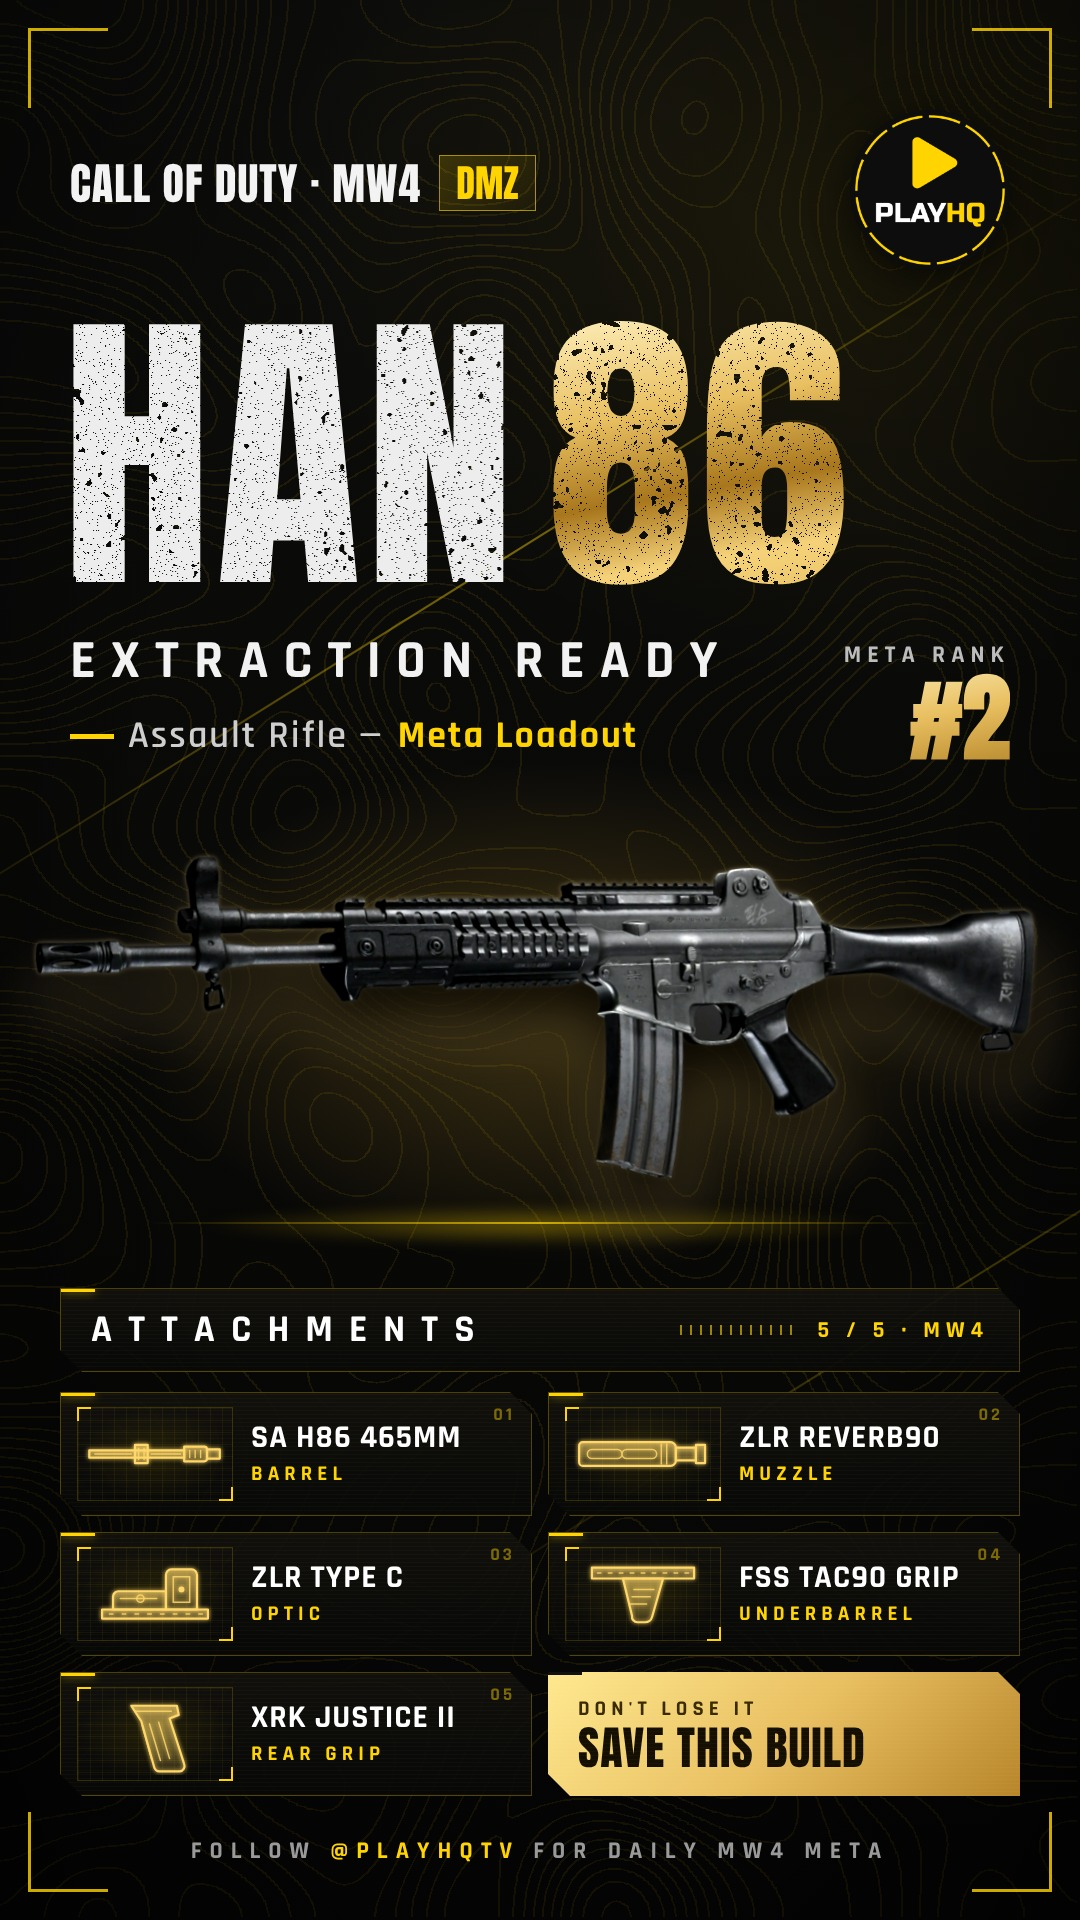
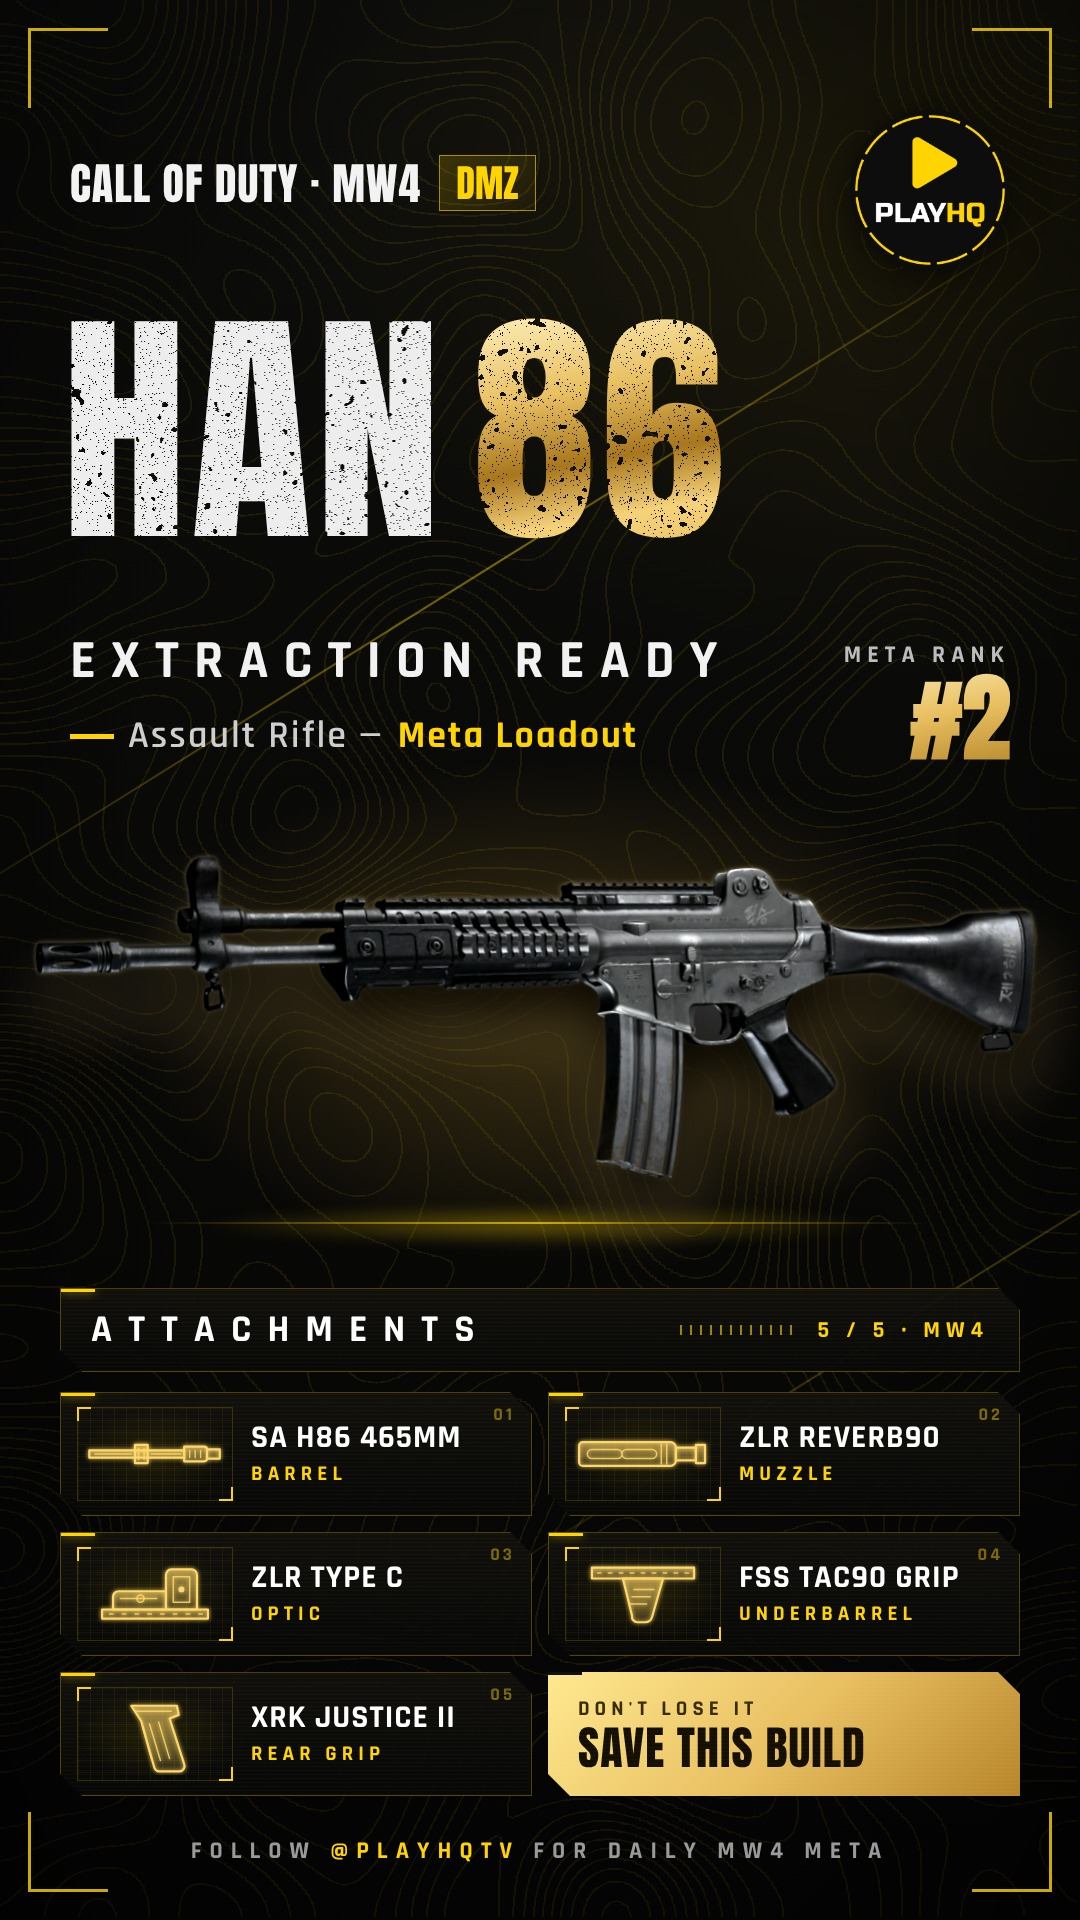
Carousel template: QA fixes (cover safe zone, CTA follow block, title size)
Claude-Session: https://claude.ai/code/session_01LXyKCaXtAVVtiefghrjJL7

Changed region(s): [[0.0611, 0.1562, 0.7944, 0.3125]]

diff --git a/templates/meta-carousel/render.py b/templates/meta-carousel/render.py
@@ -63,10 +63,10 @@ body{width:1080px;height:1920px;overflow:hidden;background:#070707;font-family:R
 .save .tx b{color:#140f00;font-family:Anton;font-size:46px;font-weight:400;letter-spacing:1px}
 .save .tx small{color:#3a2a00;letter-spacing:5px;font-size:21px;margin:0 0 2px}
 .kicker{position:absolute;left:70px;font-weight:700;font-size:34px;letter-spacing:14px;color:var(--y)}
-.card{position:absolute;width:465px;height:330px}
+.card{position:absolute;width:465px;height:280px}
 .card .badge{position:absolute;left:18px;top:18px;font-family:Anton;font-size:44px;line-height:60px;width:60px;text-align:center;color:#140f00;background:linear-gradient(135deg,#ffe88f,#e9c062 50%,#b8862a);clip-path:polygon(0 0,100% 0,100% 70%,70% 100%,0 100%)}
-.card .cimg{position:absolute;left:20px;right:20px;top:70px;height:170px;display:grid;place-items:center}
-.card .cimg img{max-width:400px;max-height:160px;filter:drop-shadow(0 16px 12px rgba(0,0,0,.8))}
+.card .cimg{position:absolute;left:20px;right:20px;top:60px;height:140px;display:grid;place-items:center}
+.card .cimg img{max-width:380px;max-height:130px;filter:drop-shadow(0 16px 12px rgba(0,0,0,.8))}
 .card .nm{position:absolute;left:24px;bottom:22px;font-weight:700;font-size:34px;letter-spacing:3px}
 .card .cl{position:absolute;right:24px;bottom:28px;font-weight:700;font-size:20px;letter-spacing:4px;color:var(--y)}
 .swipe{position:absolute;left:0;right:0;text-align:center;font-weight:700;font-size:34px;letter-spacing:12px;color:var(--y)}
@@ -95,7 +95,7 @@ def page(body, d):
             + f'<div class="foot">{d.get("footer", "FOLLOW <b>@PLAYHQTV</b> FOR DAILY MW4 META")}</div>' + FITJS + '</body></html>')
 
 
-def title_html(white, gold, top, size=300, max_w=950):
+def title_html(white, gold, top, size=250, max_w=950):
     """One line if it fits at >=200px, otherwise white on line 1 and gold on line 2."""
     if len(white) + len(gold) <= 10:
         return (f'<div class="fit" style="top:{top}px" data-size="{size}" data-max="{max_w}" data-zone="{top},{size + 10}">'
@@ -125,16 +125,16 @@ def weapon_slide(w, d):
 
 def cover_slide(d):
     c = d['cover']
-    pos = [(60, 900), (555, 900), (60, 1250), (555, 1250)]
+    pos = [(60, 730), (555, 730), (60, 1030), (555, 1030)]
     cards = ''.join(
         f'<div class="card hud" style="left:{x}px;top:{y}px"><div class="badge">{w["rank"]}</div>'
         f'<div class="cimg"><img src="/weapons/{w["image"]}" style="filter:drop-shadow(0 16px 12px rgba(0,0,0,.8)) brightness({w.get("brightness", 1.18)})"></div>'
         f'<div class="nm">{E(w["short"])}</div><div class="cl">{E(w["class"].upper())}</div></div>'
         for (x, y), w in zip(pos, d['weapons']))
     body = (f'<div class="kicker" style="top:300px">{E(c.get("kicker", "UPDATED"))}</div>'
-            + f'<div class="fit" style="top:350px" data-size="330" data-max="950"><span class="gr gold">{E(c["big"])}</span></div>'
-            + f'<div class="fit" style="top:690px" data-size="160" data-max="950"><span class="gr w">{E(c["small"])}</span></div>'
-            + cards + f'<div class="swipe" style="top:1640px">{E(c.get("swipe", "SWIPE FOR THE LOADOUTS ›"))}</div>')
+            + f'<div class="fit" style="top:345px" data-size="250" data-max="950"><span class="gr gold">{E(c["big"])}</span></div>'
+            + f'<div class="fit" style="top:590px" data-size="120" data-max="950"><span class="gr w">{E(c["small"])}</span></div>'
+            + cards + f'<div class="swipe" style="top:1325px">{E(c.get("swipe", "SWIPE FOR THE LOADOUTS ›"))}</div>')
     return page(body, d)
 
 
@@ -147,9 +147,10 @@ def cta_slide(d):
             + f'<div class="fit" style="top:530px" data-size="180" data-max="950"><span class="gr gold">{E(c["gold"])}</span></div>'
             + f'<div class="kicker" style="top:760px;letter-spacing:10px;color:#d9d9d9">{E(c.get("sub", "DROP THE NUMBER IN THE COMMENTS"))}</div>'
             + rows
-            + '<div class="fit" style="top:1460px;left:0;right:0;text-align:center" data-size="96" data-max="1000"><span class="gr w" style="margin-right:26px">FOLLOW</span><span class="gr gold">@PLAYHQTV</span></div>'
-            + f'<div class="swipe" style="top:1580px;color:#cfcfcf;letter-spacing:10px">{E(c.get("follow_sub", "FOR DAILY MW4 META"))}</div>')
-    return page(body, d)
+            + '<img src="/assets/logo.png" style="position:absolute;left:440px;top:1420px;width:200px;filter:drop-shadow(0 10px 24px rgba(0,0,0,.7))">'
+            + '<div style="position:absolute;left:0;right:0;top:1640px;text-align:center;font-family:Anton;font-size:84px;line-height:1;letter-spacing:3px">FOLLOW <span style="background:linear-gradient(170deg,var(--g1),var(--g2) 45%,var(--g3));-webkit-background-clip:text;color:transparent">@PLAYHQTV</span></div>'
+            + f'<div class="swipe" style="top:1745px;color:#cfcfcf;letter-spacing:10px;font-size:30px">{E(c.get("follow_sub", "FOR DAILY MW4 META"))}</div>')
+    return page(body, {**d, 'footer': ''})
 
 
 def serve(root):
